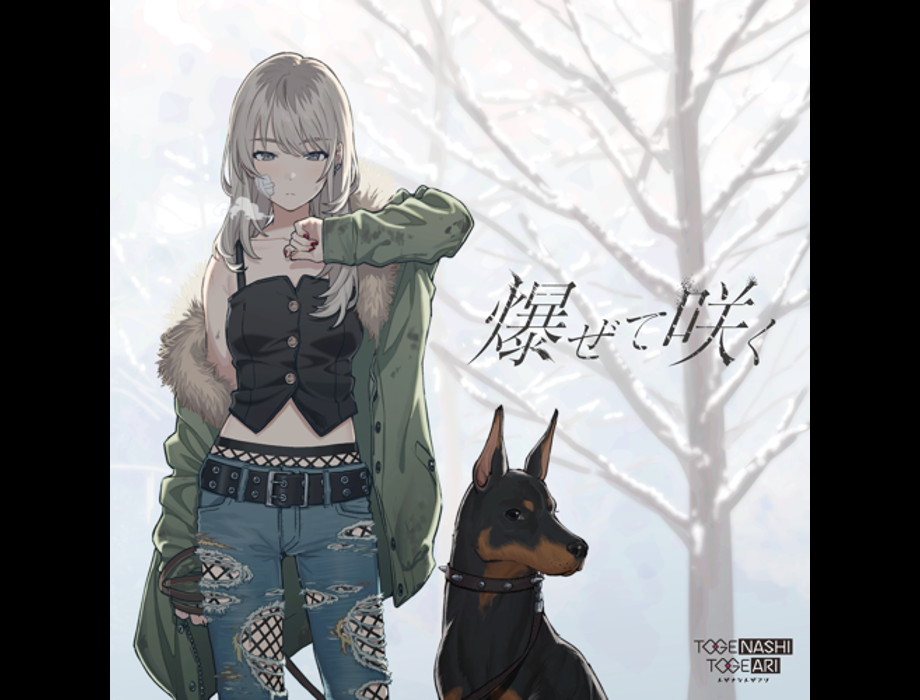
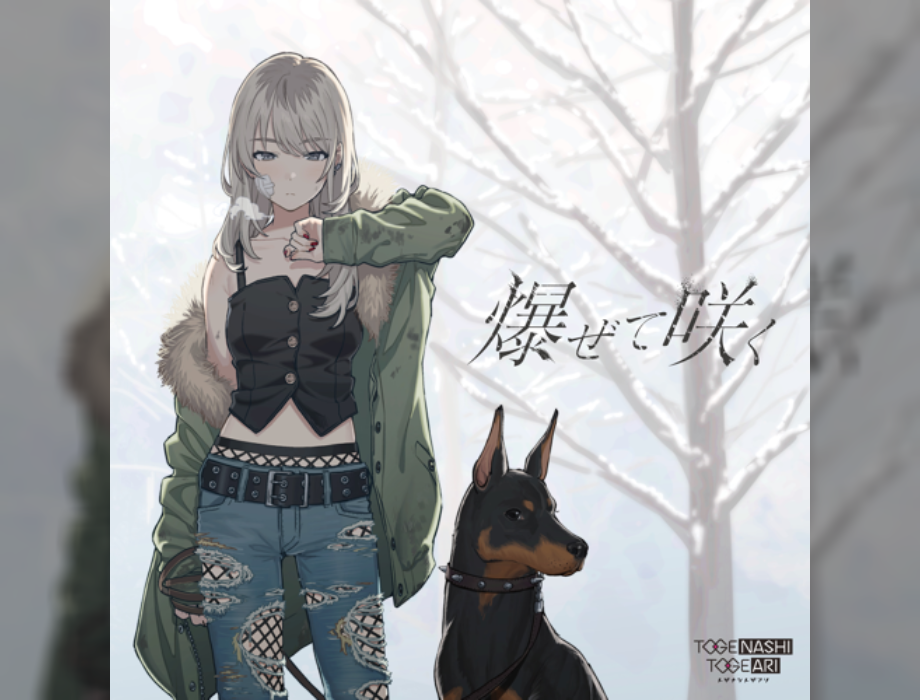
update

Changed region(s): [[0.8826, 0.0, 1.0, 1.0], [0.0, 0.0, 0.1217, 1.0]]

diff --git a/src/process.py b/src/process.py
@@ -1,3 +1,4 @@
+import cv2
 from PIL import Image
 from config import  *
 from filepath import *
@@ -12,7 +13,19 @@ def artwork_img_fail():
 
 def ogp_to_artwork():
   # OGP画像をアートワーク画像に差し替え
-  Image.open(artwork_img_path).save(og_img_path)
+  artwork = cv2.imread(artwork_img_path)
+
+  w1, h1 = ogpResizeSize
+  half = int((w1 - h1) / 2)
+  background = cv2.resize(artwork, (w1, w1))
+  background = background[half : h1+half, 0 : w1]
+  background = cv2.blur(background, (20, 20))
+  background = cv2.convertScaleAbs(background, alpha=0.6, beta=0)
+
+  artwork = cv2.resize(artwork, (h1, h1))
+  w2, h2 = artwork.shape[:2]
+  background[0 : w2, half : h2+half] = artwork
+  cv2.imwrite(og_img_path, background)
 
 def image_add_margin(image):
   w1, h1 = image.size

diff --git a/src/config.py b/src/config.py
@@ -1,8 +1,8 @@
 from annict.api import API
 
 # デバッグ用（本番稼働時は空にする）
-masterTitle   = ''
-masterArtist  = ''
+masterTitle   = '爆ぜて咲く'
+masterArtist  = 'トゲンシトゲアリ'
 
 # インターバル
 captureInterval = 1 # seconds
